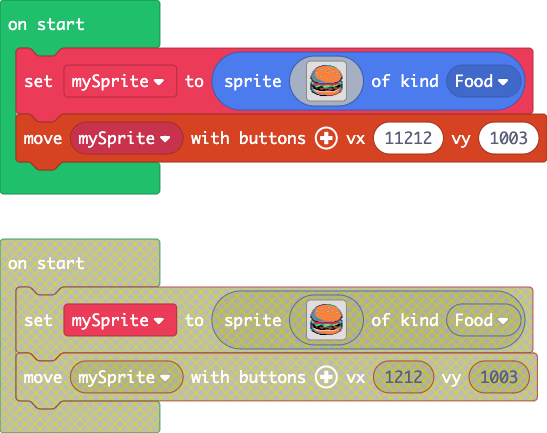
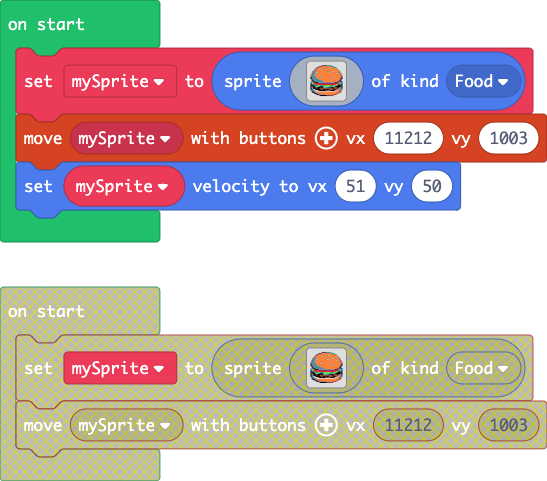
Update main.blocks, main.ts

diff --git a/main.ts b/main.ts
@@ -33,3 +33,4 @@ f 6 6 d d f f f f f e e e f f e f f e e e e e f f e e d b 4 6 e
 . . . . . . . . . . . . . . . . . . . . . . . . . . . . . . . . 
 `, SpriteKind.Food)
 controller.moveSprite(mySprite, 11212, 1003)
+mySprite.setVelocity(51, 50)
